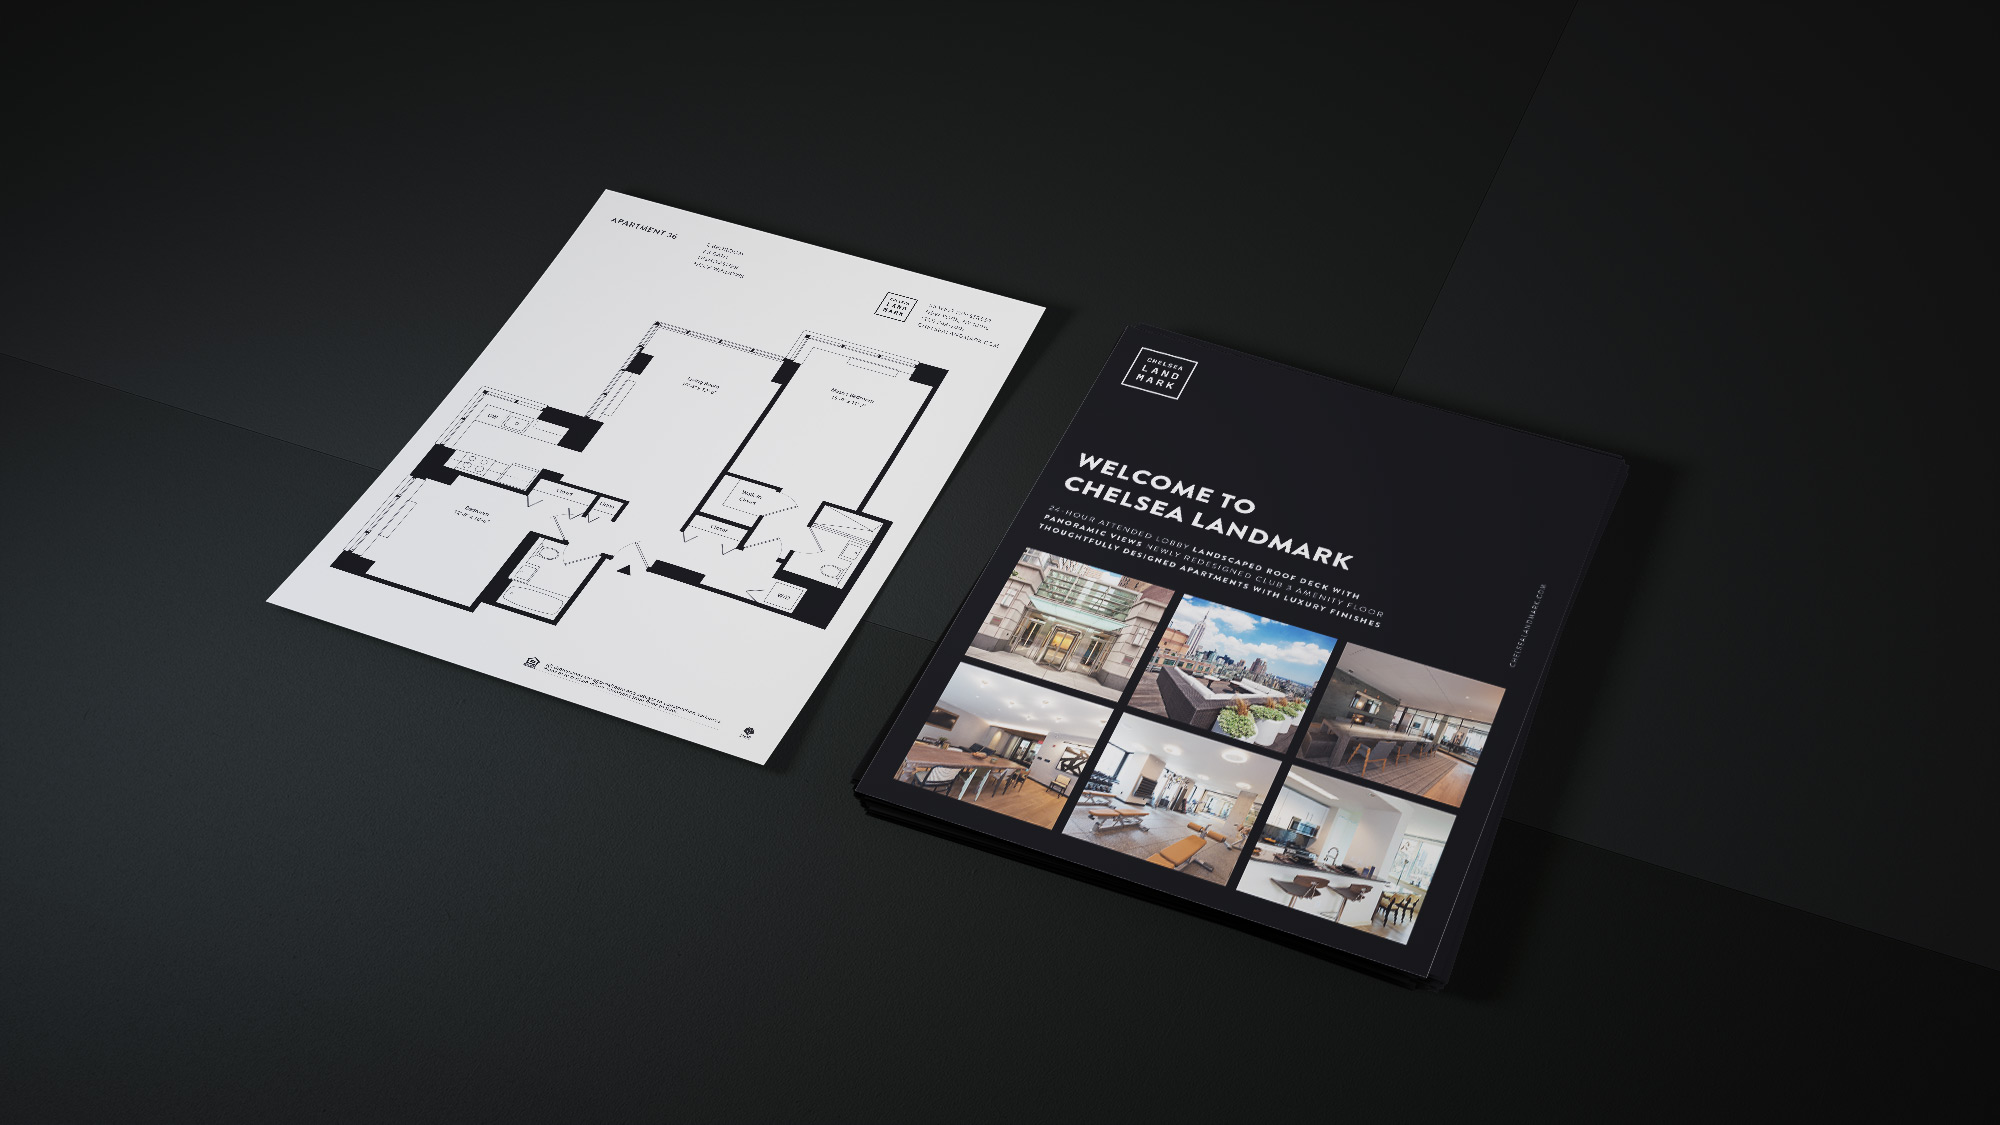
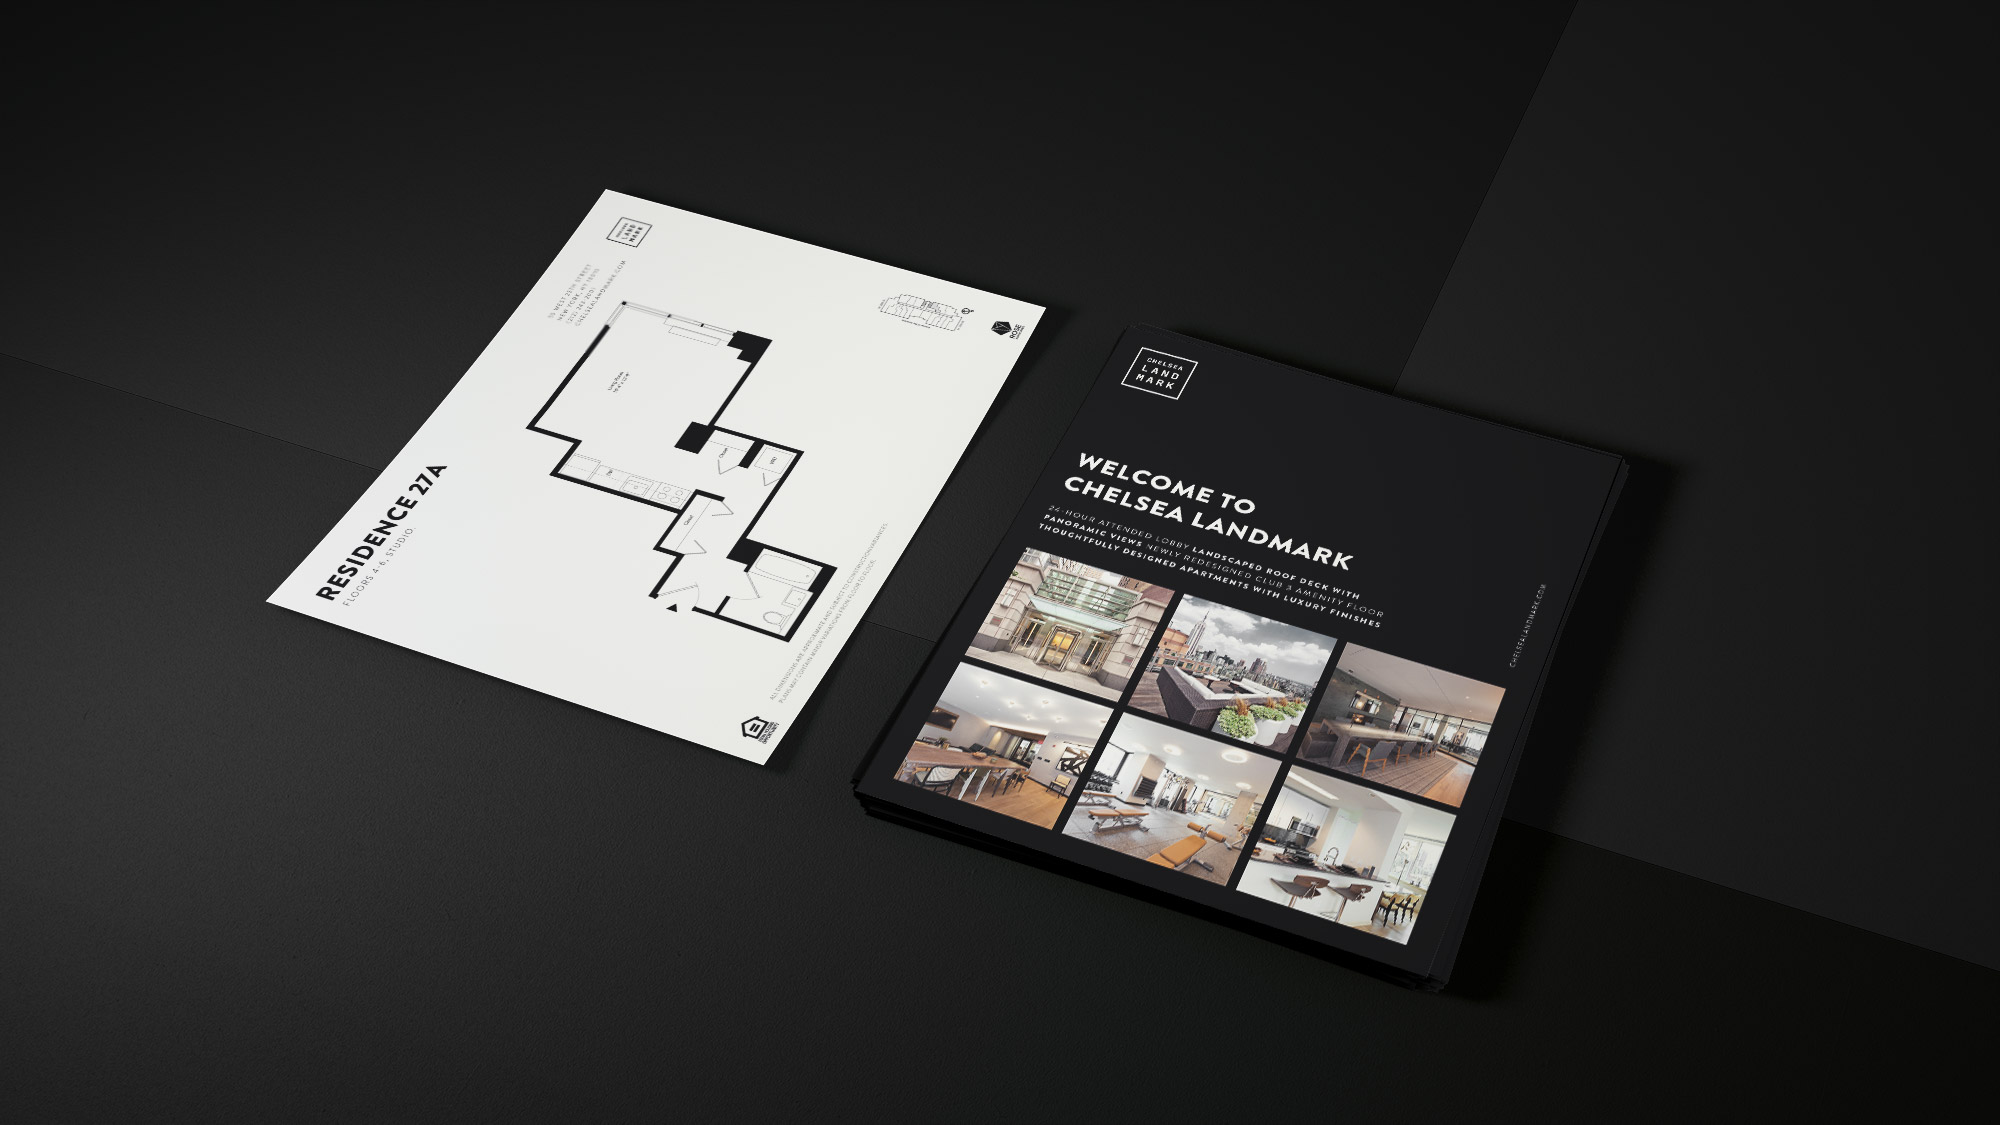
New floorplan paper and text updates.

diff --git a/_projects/chelsea-landmark.md b/_projects/chelsea-landmark.md
@@ -12,7 +12,7 @@ thumb-text-color: '#222222'
 <div class="text-block">
   <p>Chelsea Landmark is a New York City rental building located between the three popular neigborhoods; Chelsea, NoMad and Flatiron.</p>
 
-  <p>This is just to check how it looks with one more line in there.</p>
+  <p>I was hired to renew their excisting logo, create a new website, design floorplan papers, building banners and a follow-up email template</p>
 </div>
 
 <div class="cl-logo-container">
